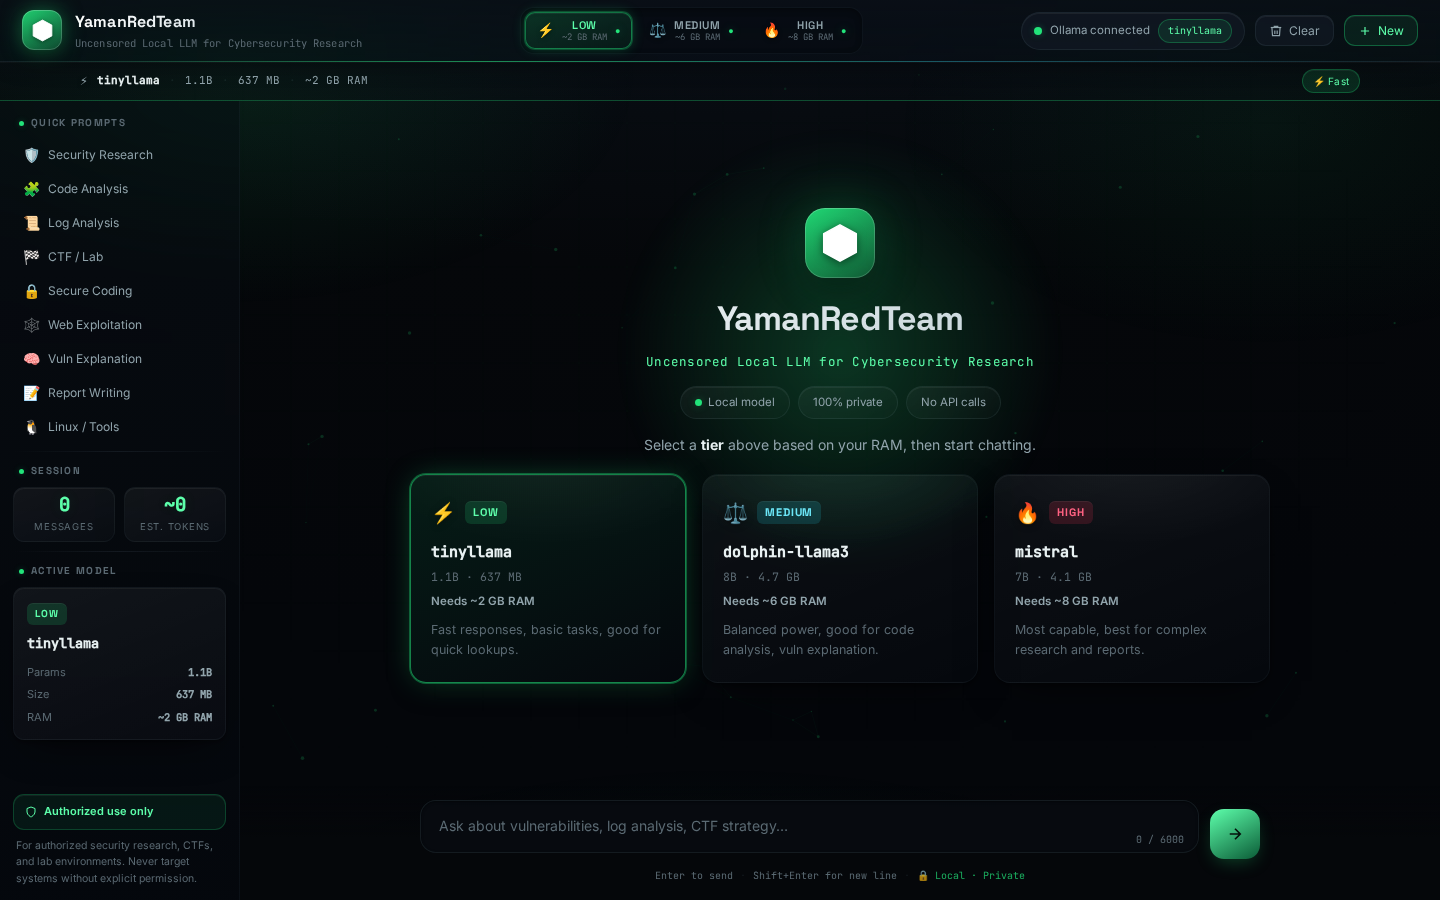
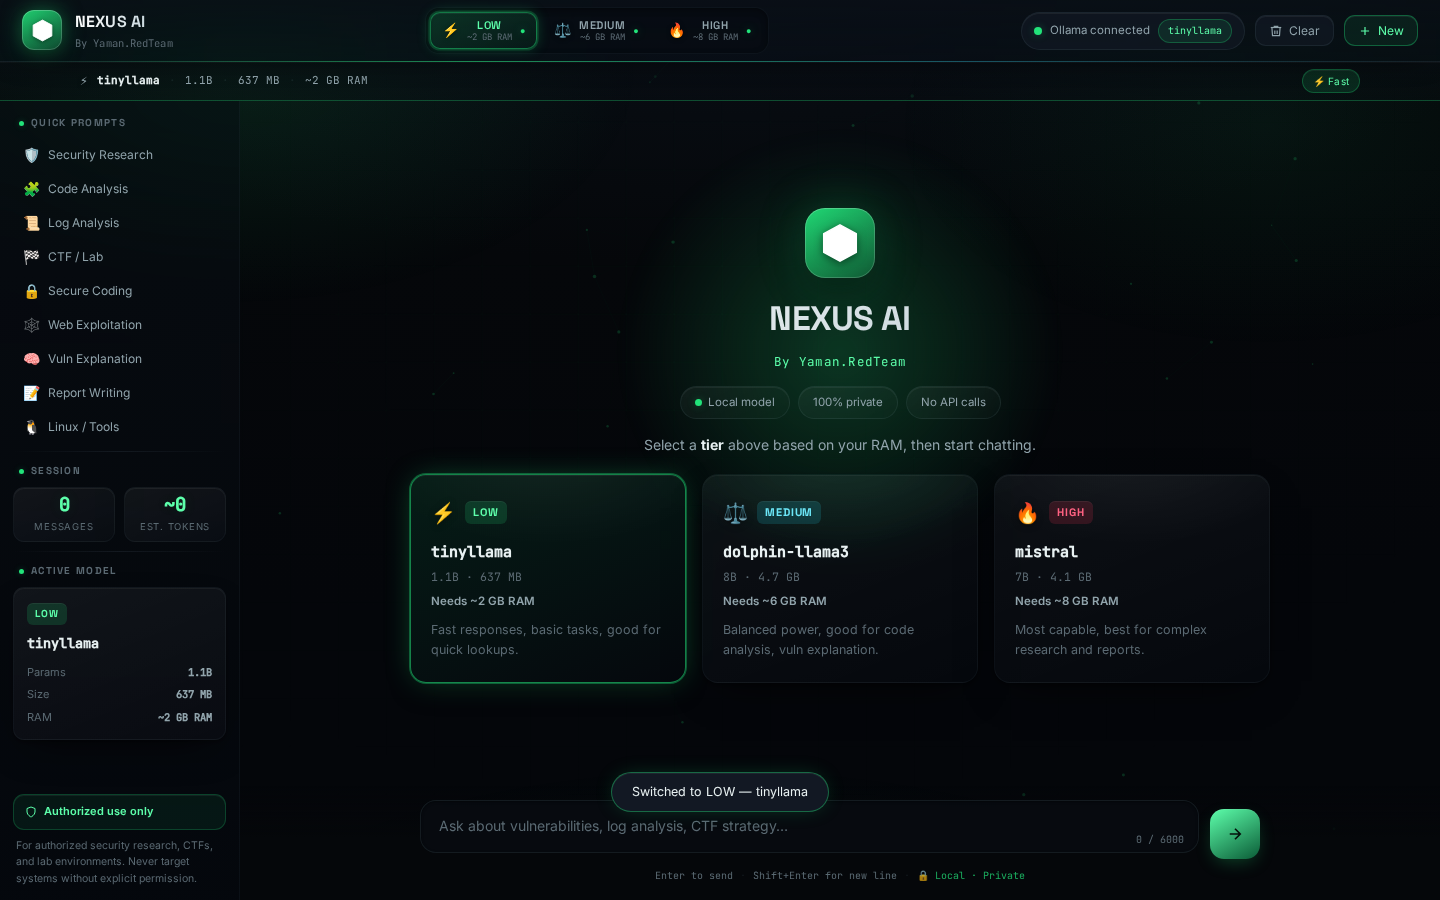
Rebrand to NEXUS AI By Yaman.RedTeam — update app, README, screenshots

diff --git a/app.py b/app.py
@@ -1,5 +1,5 @@
 """
-YamanRedTeam Local LLM — FastAPI backend.
+NEXUS AI — FastAPI backend.
 Multi-model support: LOW / MEDIUM / HIGH tier.
 """
 
@@ -19,8 +19,8 @@ from starlette.requests import Request
 
 load_dotenv()
 
-BRAND_NAME    = "YamanRedTeam"
-BRAND_TAGLINE = "Uncensored Local LLM for Cybersecurity Research"
+BRAND_NAME    = "NEXUS AI"
+BRAND_TAGLINE = "By Yaman.RedTeam"
 
 OLLAMA_HOST             = os.getenv("OLLAMA_HOST", "http://localhost:11434").rstrip("/")
 REQUEST_TIMEOUT_SECONDS = float(os.getenv("REQUEST_TIMEOUT_SECONDS", "300"))
@@ -66,8 +66,8 @@ MODELS = {
 
 DEFAULT_TIER = os.getenv("DEFAULT_TIER", "low")
 
-SYSTEM_PROMPT = """You are the YamanRedTeam Local Assistant, an uncensored, locally-hosted
-language model used for authorized cybersecurity research and education.
+SYSTEM_PROMPT = """You are NEXUS AI, an uncensored, locally-hosted language model
+by Yaman.RedTeam, used for authorized cybersecurity research and education.
 
 Support the user with: security concepts, code and log analysis, secure coding
 practices, CTF and lab walkthroughs, vulnerability explanations, penetration-testing

diff --git a/README.md b/README.md
@@ -1,4 +1,4 @@
-# YamanRedTeam — Uncensored Local LLM for Cybersecurity Research
+# NEXUS AI — By Yaman.RedTeam
 
 A privacy-focused, locally-hosted AI assistant for cybersecurity learners and
 researchers, built on **Python, FastAPI, and Ollama**. Everything runs
@@ -12,7 +12,7 @@ third-party API.
 ![license](https://img.shields.io/badge/license-MIT-lightgrey)
 
 <p align="center">
-  <img src="screenshots/welcome.png" alt="YamanRedTeam Local LLM — welcome screen" width="880">
+  <img src="screenshots/welcome.png" alt="NEXUS AI — welcome screen" width="880">
 </p>
 
 ---
@@ -97,7 +97,7 @@ button, tier card, send button, and message bubbles all recolor together.
 
 ## What this is
 
-YamanRedTeam Local LLM wraps an uncensored/open local language model
+NEXUS AI wraps an uncensored/open local language model
 (served through [Ollama](https://ollama.com)) in a clean FastAPI + web chat
 interface, aimed at:
 
@@ -127,9 +127,9 @@ security research, education, CTFs, and controlled lab environments.
 ## Architecture
 
 ```
-User → YamanRedTeam Web UI → FastAPI Backend ──────► Ollama API → Local LLM
-                                    │  (tier → model)                  │
-User ← YamanRedTeam Web UI ◄─ SSE stream ◄──────── token chunks ◄─────┘
+User → NEXUS AI Web UI → FastAPI Backend ──────► Ollama API → Local LLM
+                                  │  (tier → model)                  │
+User ← NEXUS AI Web UI ◄─ SSE stream ◄──────── token chunks ◄─────┘
 ```
 
 The `/api/chat` endpoint returns a **Server-Sent Events** stream. Each chunk
@@ -407,4 +407,4 @@ MIT — see [LICENSE](LICENSE).
 
 ---
 
-Built independently by **YamanRedTeam**.
+Built by **Yaman.RedTeam**.
